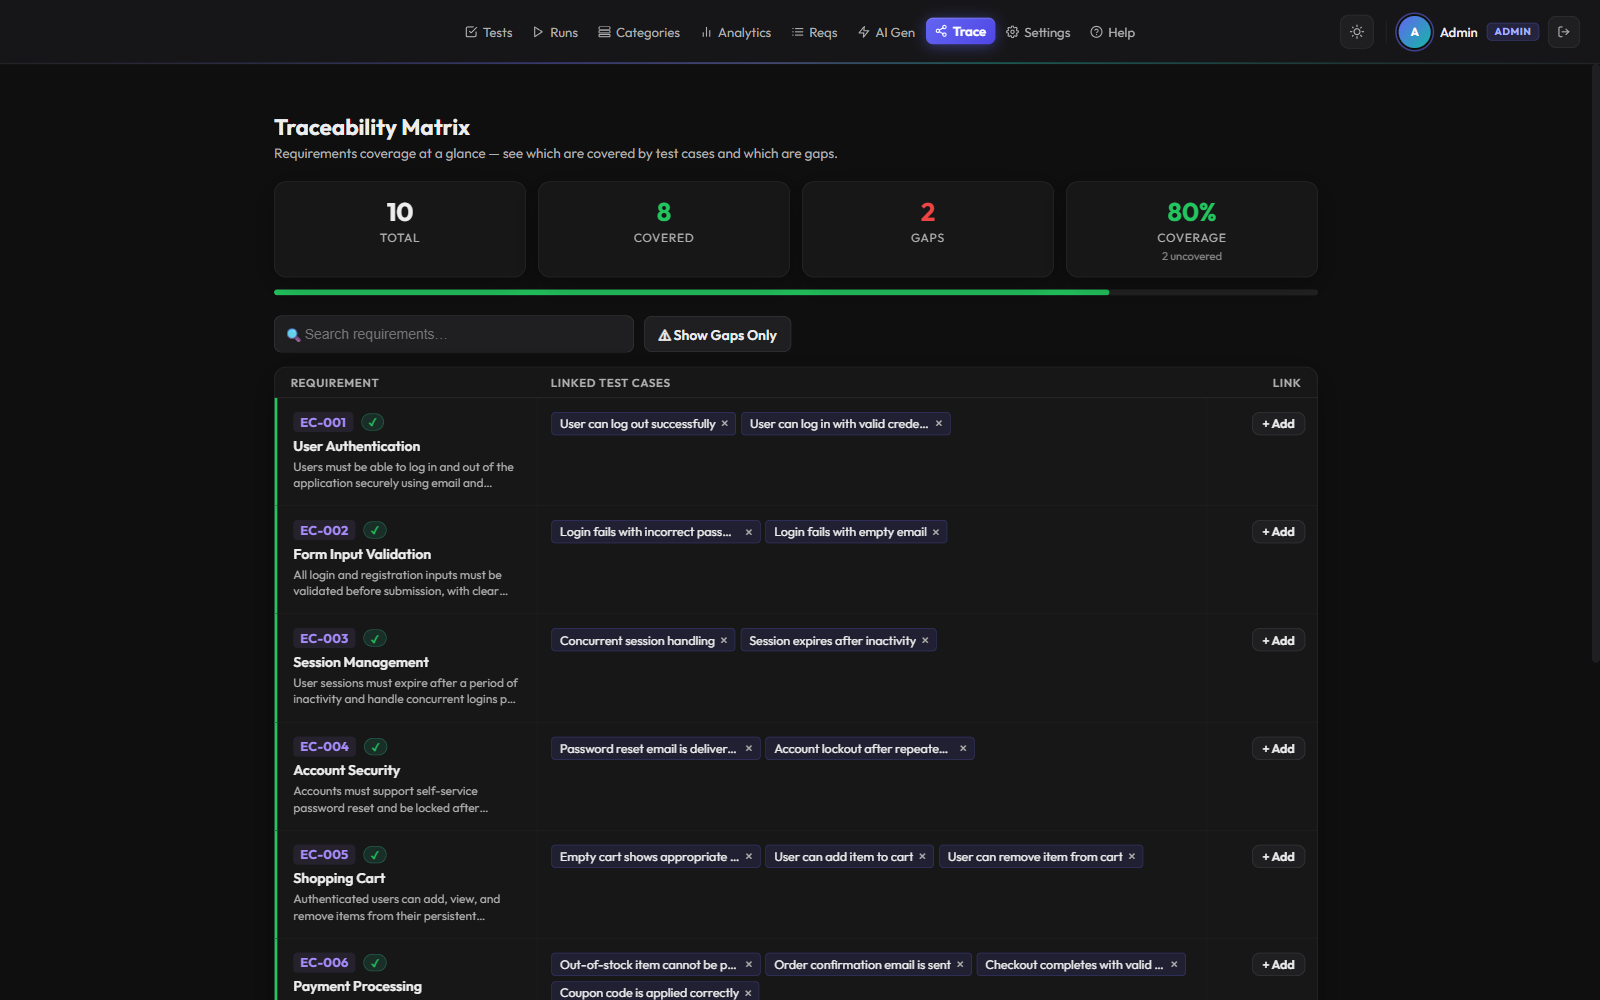
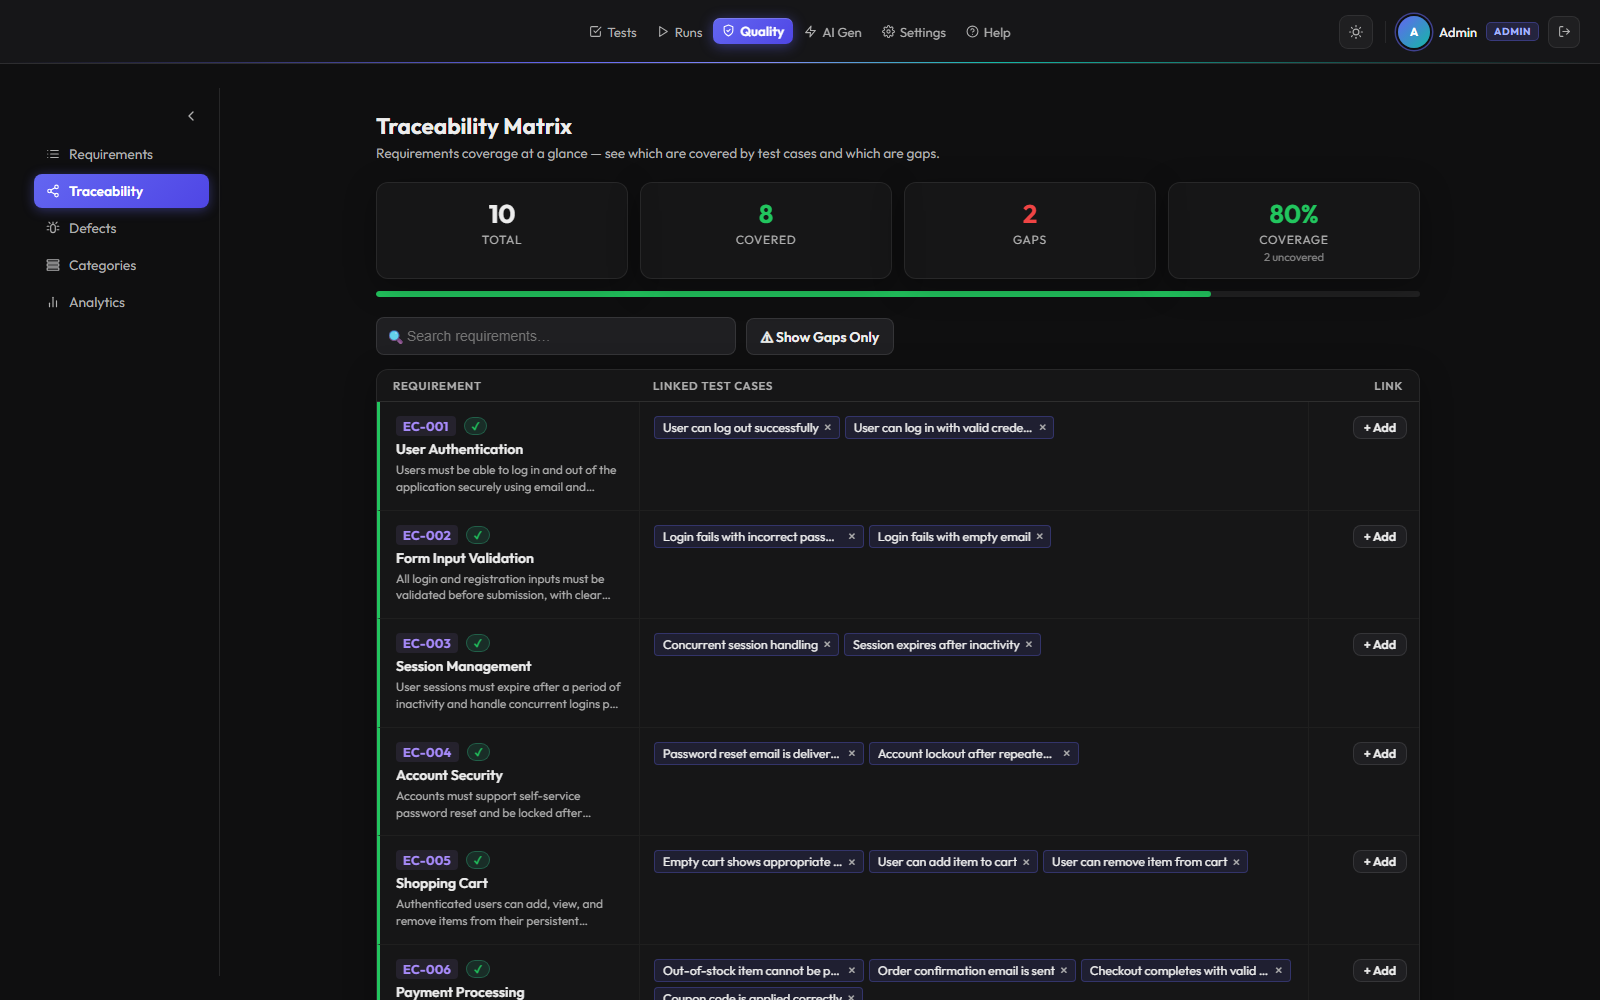
feat(site): refresh analytics/traceability shots for Quality nav; add native defects feature

diff --git a/index.html b/index.html
@@ -138,6 +138,14 @@
 
         <div class="feature reveal">
           <div class="feature__text">
+            <h3>Native defect tracking</h3>
+            <p>Log lightweight defects with severity and status right where tests fail, link them to results, and manage them on a dedicated Defects page in the Quality workspace — with an optional reference out to Jira or any external tracker.</p>
+          </div>
+          <div class="feature__shot"><div class="browser"><div class="browser__bar"><span></span><span></span><span></span></div><img src="images/07-defects.png" alt="TTGO defects — native bug tracking with severity, status and an optional external reference" loading="lazy" /></div></div>
+        </div>
+
+        <div class="feature feature--rev reveal">
+          <div class="feature__text">
             <h3>AI test generation</h3>
             <p>Pick a requirement for context, describe what you want, and let your configured model draft test cases for review. Nothing is saved until you approve it — your key, your data.</p>
           </div>